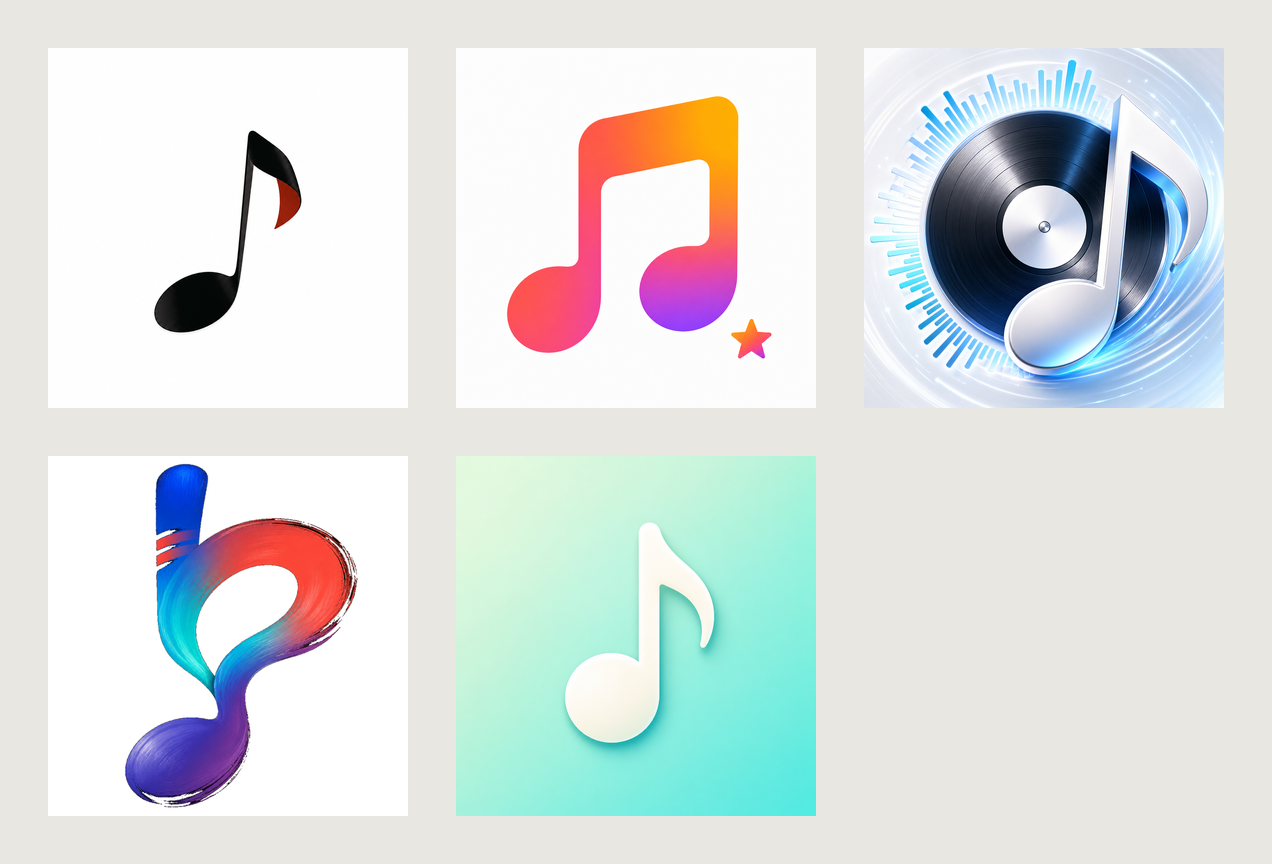
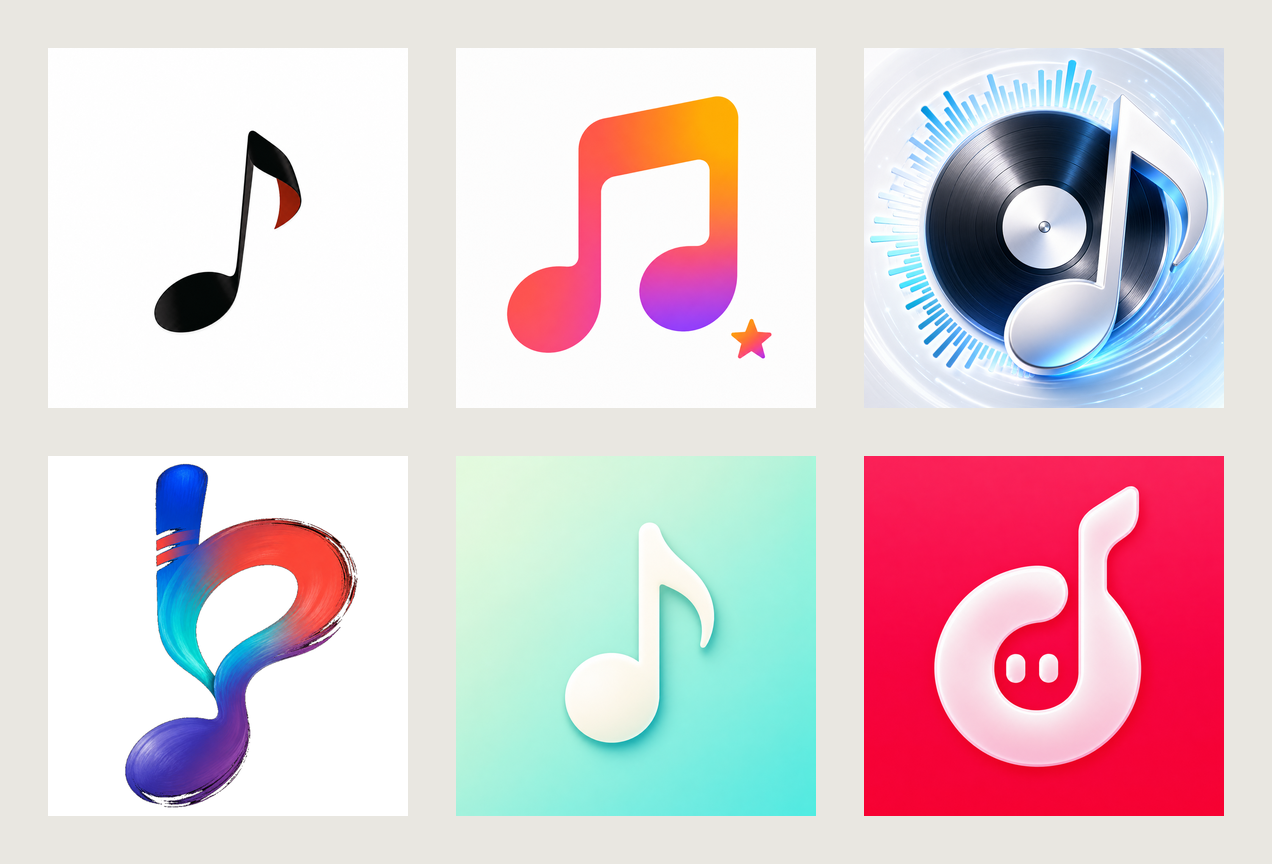
新增 Chris’s Muse 自适应图标主题

Changed region(s): [[0.6745, 0.5, 0.9811, 0.9688]]

diff --git a/Primuse/Views/Mac/Theme/PrimuseTheme.swift b/Primuse/Views/Mac/Theme/PrimuseTheme.swift
@@ -1586,13 +1586,14 @@ struct MacAppIcon: Identifiable, Equatable, Sendable {
     /// 这套图标的品牌色 — 仅用于色环展示, 不强行改全局 accent。
     let tint: Color
 
-    /// 当前默认、经典图标和 4 套保留方向，跟资源目录里的预览资源一一对应。
+    /// 可选图标与 iOS 顺序一致，跟资源目录里的预览资源一一对应。
     static let all: [MacAppIcon] = [
         MacAppIcon(id: "",         previewAsset: "AppIconPreview",  nameKey: "icon_default", tint: Color(red: 0.914, green: 0.314, blue: 0.263)),
         MacAppIcon(id: "AppIcon9", previewAsset: "AppIcon9Preview", nameKey: "icon_theme_9", tint: Color(red: 0.078, green: 0.490, blue: 0.541)),
         MacAppIcon(id: "AppIcon12", previewAsset: "AppIcon12Preview", nameKey: "icon_theme_12", tint: Color(red: 0.965, green: 0.251, blue: 0.424)),
         MacAppIcon(id: "AppIcon11", previewAsset: "AppIcon11Preview", nameKey: "icon_theme_11", tint: Color(red: 0.176, green: 0.651, blue: 0.890)),
         MacAppIcon(id: "AppIcon6", previewAsset: "AppIcon6Preview", nameKey: "icon_theme_6", tint: Color(red: 0.251, green: 0.835, blue: 0.784)),
+        MacAppIcon(id: "AppIcon13", previewAsset: "AppIcon13Preview", nameKey: "icon_theme_13", tint: Color(red: 1, green: 0.059, blue: 0.267)),
     ]
 
     static func option(for id: String) -> MacAppIcon {

diff --git a/Primuse/Services/AppIconService.swift b/Primuse/Services/AppIconService.swift
@@ -35,7 +35,7 @@ final class AppIconService {
 
     /// Keep the classic icon immediately after the current primary icon,
     /// then show the retained design alternatives in their existing order.
-    private static let themeOrder = [9, 12, 11, 6]
+    private static let themeOrder = [9, 12, 11, 6, 13]
 
     /// Themes that ship only a single visual variant (no dark counterpart in
     /// the asset catalog). Add a theme index here when no dark image exists.

diff --git a/scripts/generate_app_icon_assets.py b/scripts/generate_app_icon_assets.py
@@ -17,6 +17,14 @@ WATCH_ICONSET = ROOT / "PrimuseWatch" / "Resources" / "Assets.xcassets" / "AppIc
 
 EXACT_ICONS = [
     (
+        "13-chris-muse",
+        "AppIcon13",
+        "AppIcon13Preview",
+        "13-chris-muse.png",
+        "13-chris-muse-dark.png",
+        "13-chris-muse-tinted.png",
+    ),
+    (
         "00-folded-note",
         "AppIcon",
         "AppIconPreview",
@@ -54,7 +62,7 @@ BRUSH_ICONS = [
     ("11-color-brush-source.png", "11-color-brush", "AppIcon11", "AppIcon11Preview"),
 ]
 
-CATALOG_ORDER = ["AppIcon", "AppIcon12", "AppIcon9", "AppIcon11", "AppIcon6"]
+CATALOG_ORDER = ["AppIcon", "AppIcon12", "AppIcon9", "AppIcon11", "AppIcon6", "AppIcon13"]
 
 
 def save_direct_ios_assets(

diff --git a/IconDesign/AppIcons2026/README.md b/IconDesign/AppIcons2026/README.md
@@ -1,18 +1,21 @@
 # Primuse app icon system
 
-The production catalog contains one primary icon and four alternates:
+The production catalog contains one primary icon and five alternates:
 
 - `00-folded-note.png` — primary folded-note icon.
 - `12-pikaqiu.png` — user-submitted gradient music-note icon on an adaptive light, dark, or tinted background.
 - `09-classic-record.png` — historical record-and-note artwork restored as the classic icon.
 - `11-color-brush.png` — a multicolor lacquer brush that fuses the Primuse P, Jingu Bang, and music note.
 - `06-soft-note.png` — restored original soft-gradient music note.
+- `13-chris-muse.png` — Chris’s Muse, designed by Chris, with a white dimensional note on red in Light and a pink-red note on charcoal in Dark.
 
 Private Library, Lossless Audio, Record Collection, Speaker Play, and Muse Spark are intentionally no longer part of the catalog.
 
 ## Appearance system
 
 The folded note, Pikaqiu, classic record, and soft note preserve their Light, Dark, and Tinted PNGs without palette normalization. Color Brush derives pure-white Light plus grayscale Tinted artwork from its selected pure-black source.
+
+Chris’s Muse preserves the artwork from `13-chris-muse-light-original.jpg` and `13-chris-muse-dark-original.jpg`. The supplied rounded outer rim is removed so platform masking does not create a second edge; the note's dimensional highlights are retained. Its Tinted variant uses a silver-white note on charcoal. The selected original JPEGs are retained alongside the prepared PNGs in `raw/`.
 
 All iOS masters are 1024×1024 full-bleed RGB PNGs with no baked platform corner mask. macOS sizes are derived from the primary Light icon with the platform-specific inset and rounded mask. watchOS uses the primary Light artwork so the white-background default remains consistent across all three platforms.
 
